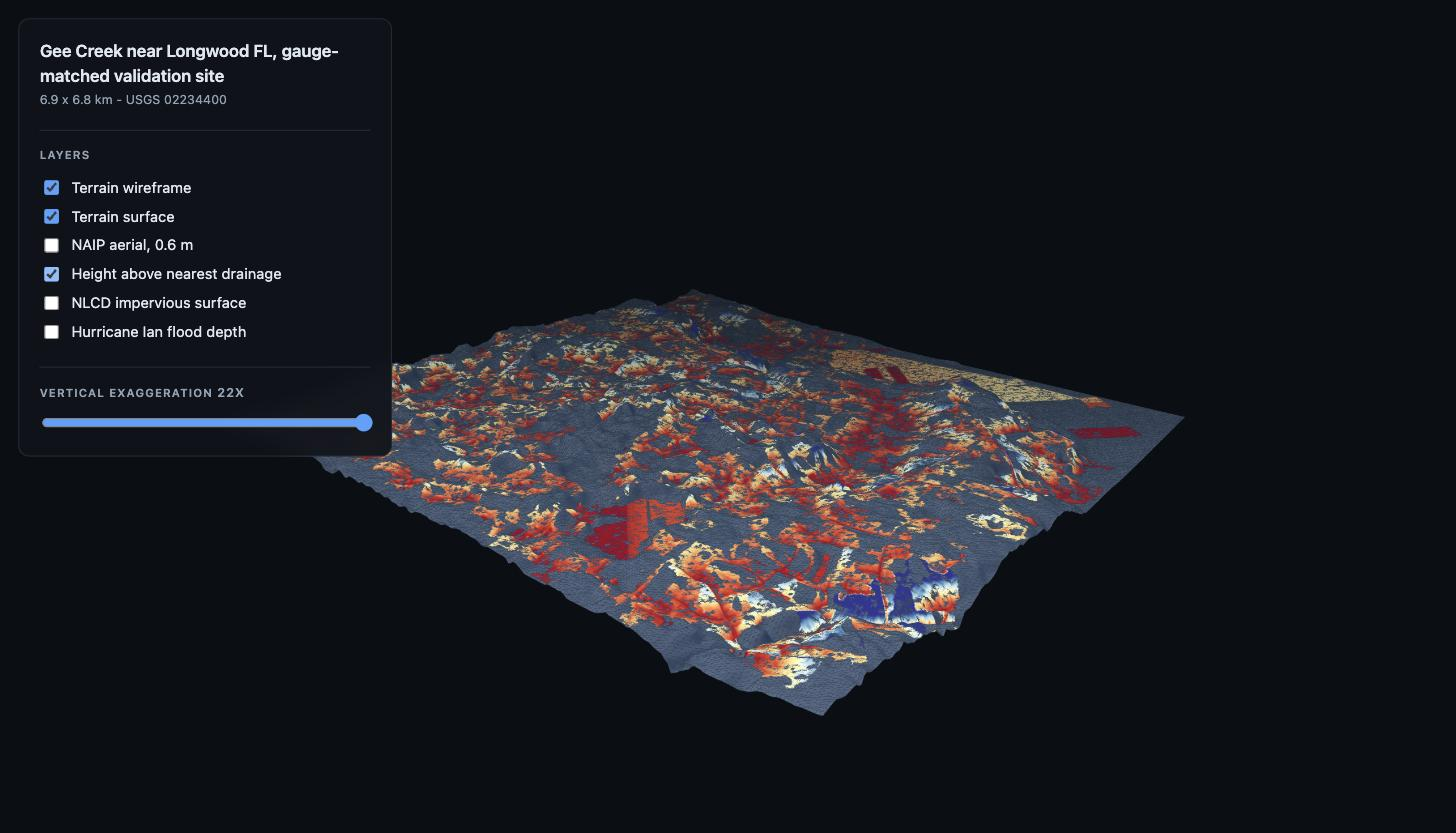
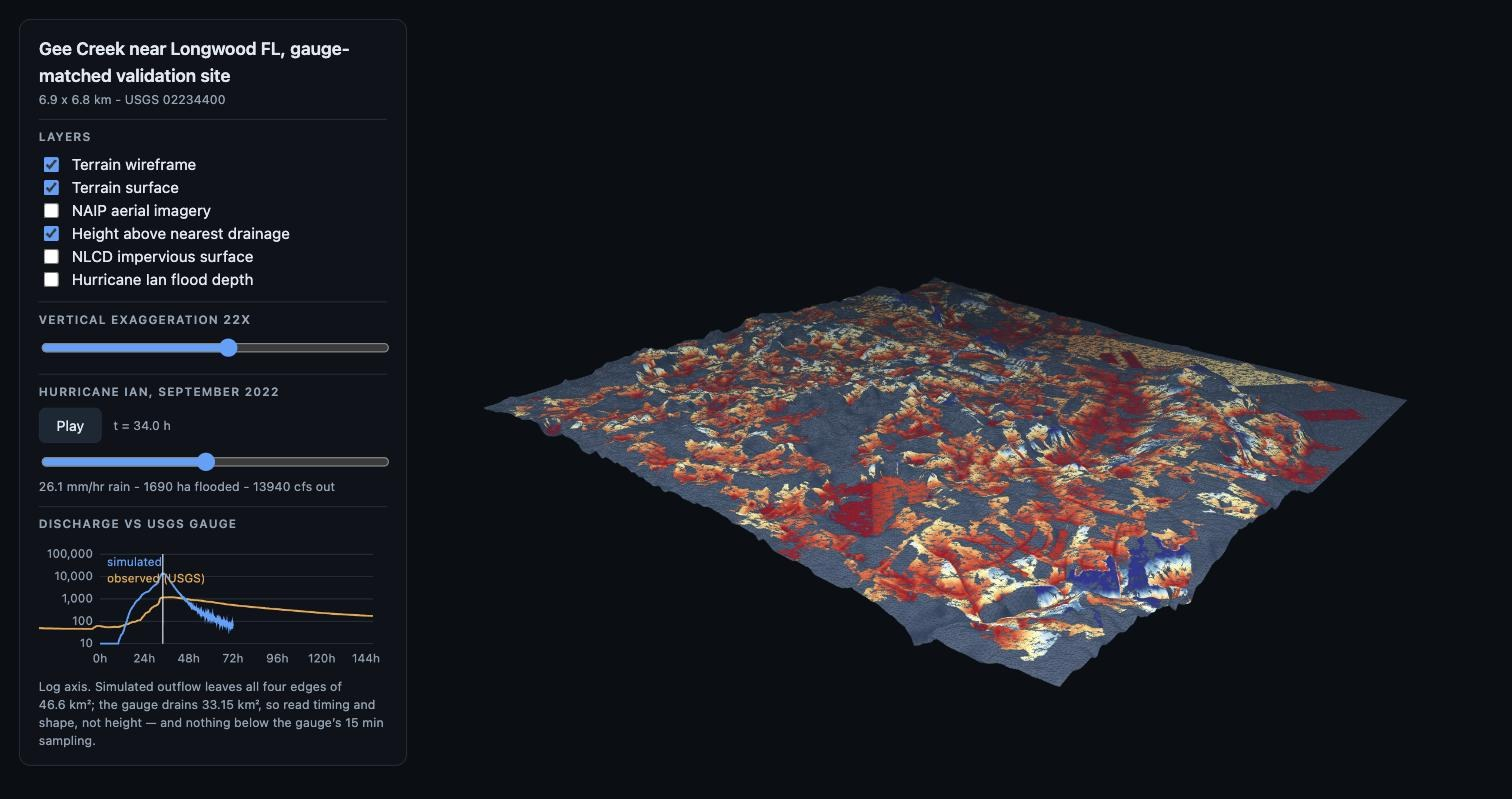
hydro: frame the viewer clear of its own panel, and retake the screenshots
Three things visible in the README's images on GitHub, two of them real.

The panel is opaque, fixed to the top-left, and 330x703 -- a quarter of the
canvas -- while the scene is centred on that canvas, so the terrain's near
corner sat underneath it. The projection now carries a view offset rather than
the camera: moving the camera would put the orbit centre off in space and every
drag would swing around it, while a negative x view-offset slides the rendered
scene right and leaves the orbit on the terrain.

The panel needed 873 px of content in a 701 px viewport, so 172 px hung below
the fold and the discharge chart was cut in half -- which is how it appears in
the image on GitHub. It is 633 px now: a shorter chart, tighter sections, and a
caption that says the same thing in fewer words. That fits a 679 px viewport,
which is what a 13" laptop actually gives a browser, not just this machine's.

The layers are NOT misaligned, which is the one that looked worst. Measured
against every flip of every layer: flooded cells sit at 34 % of the elevation
range with corr -0.354, NAIP darkness against elevation is -0.424, impervious
against NAIP is -0.288, and each flipped or transposed alternative is worse or
near zero. They share one PlaneGeometry and cannot drift. What reads as
misalignment is the black drape fixed in the previous commit: 23 % of the
imagery was opaque black, so it looked inset and shifted from the terrain.
[…]

Changed region(s): [[0.0, 0.03, 0.9272, 0.8711], [0.0309, 0.6909, 0.2473, 0.9312]]

diff --git a/models/hydro/viewer/static/js/main.js b/models/hydro/viewer/static/js/main.js
@@ -45,6 +45,20 @@ controls.target.set(0, relief * state.exag * 0.4, 0);
 controls.update();
 document.getElementById('loading').remove();
 
+/* The panel is opaque and fixed to the top-left, and the scene is centred on the canvas, so the
+   terrain's near corner sits underneath it. Shifting the PROJECTION rather than the camera
+   keeps the orbit centre on the terrain -- move the camera instead and every drag rotates about
+   a point off in space. A negative x view-offset renders a window left of the virtual origin,
+   which slides the scene right by that many pixels. */
+function frameClearOfPanel() {
+  const panel = document.getElementById('panel').getBoundingClientRect();
+  const shift = innerWidth > 2.5 * panel.width ? (panel.right + 16) / 2 : 0;
+  camera.setViewOffset(innerWidth, innerHeight, -shift, 0, innerWidth, innerHeight);
+  camera.aspect = innerWidth / innerHeight;
+  camera.updateProjectionMatrix();
+}
+frameClearOfPanel();
+
 /* Layer panel. A layer whose file is absent is shown disabled rather than hidden, so the page
    says what this site does not have instead of quietly differing from another site. */
 const panel = document.getElementById('layers');
@@ -112,11 +126,10 @@ function setFrame(i) {
 function chartCaption() {
   const domain = meta.domain_km2 ? `${meta.domain_km2.toFixed(1)}\u00a0km\u00b2` : 'the domain';
   const gauge = meta.gauge
-    ? `the gauge measures one channel draining ${meta.gauge.documented_area_km2}\u00a0km\u00b2, so`
-    : 'there is no gauge here, so';
-  return `Log axis. Simulated outflow crosses all four edges of ${domain}; ${gauge} read timing `
-       + 'and shape, not relative height. The gauge samples at 15\u00a0min, so no timing '
-       + 'difference below 0.25\u00a0h is measurable.';
+    ? `the gauge drains ${meta.gauge.documented_area_km2}\u00a0km\u00b2, so`
+    : 'no gauge here, so';
+  return `Log axis. Simulated outflow leaves all four edges of ${domain}; ${gauge} read timing `
+       + 'and shape, not height \u2014 and nothing below the gauge\u2019s 15\u00a0min sampling.';
 }
 
 async function loadChart() {
@@ -156,9 +169,8 @@ setInterval(() => {
 }, 400);
 
 addEventListener('resize', () => {
-  camera.aspect = innerWidth / innerHeight;
-  camera.updateProjectionMatrix();
   renderer.setSize(innerWidth, innerHeight);
+  frameClearOfPanel();
   if (state.chart) state.chart.draw(state.flood ? state.flood.timesHours[state.frame] : 0);
 });
 

diff --git a/models/hydro/viewer/static/css/app.css b/models/hydro/viewer/static/css/app.css
@@ -12,24 +12,24 @@ html, body { margin: 0; height: 100%; background: var(--bg); color: var(--text);
 #scene { position: fixed; inset: 0; width: 100%; height: 100%; display: block; }
 
 #panel { position: fixed; top: 16px; left: 16px; width: 330px; max-height: calc(100vh - 32px);
-  overflow-y: auto; padding: 16px 18px; background: var(--panel); border: 1px solid var(--line);
+  overflow-y: auto; padding: 13px 16px; background: var(--panel); border: 1px solid var(--line);
   border-radius: 10px; backdrop-filter: blur(8px); }
 #panel h1 { margin: 0 0 2px; font-size: 15px; font-weight: 600; letter-spacing: -0.01em; }
-#panel h2 { margin: 0 0 8px; font-size: 10px; font-weight: 600; text-transform: uppercase;
+#panel h2 { margin: 0 0 6px; font-size: 10px; font-weight: 600; text-transform: uppercase;
   letter-spacing: 0.09em; color: var(--muted); }
-#panel section { margin-top: 18px; padding-top: 14px; border-top: 1px solid var(--line); }
-.muted { color: var(--muted); font-size: 11px; margin: 0; }
+#panel section { margin-top: 9px; padding-top: 7px; border-top: 1px solid var(--line); }
+.muted { color: var(--muted); font-size: 10.5px; line-height: 1.45; margin: 0; }
 
-label.layer { display: flex; align-items: center; gap: 8px; padding: 3px 0; cursor: pointer; }
+label.layer { display: flex; align-items: center; gap: 8px; padding: 0; cursor: pointer; }
 label.layer input { accent-color: var(--accent); }
 label.layer.disabled { opacity: 0.35; cursor: default; }
 
 input[type=range] { width: 100%; accent-color: var(--accent); }
-.row { display: flex; align-items: center; gap: 10px; margin-bottom: 8px; }
+.row { display: flex; align-items: center; gap: 10px; margin-bottom: 6px; }
 button { background: #1b2735; color: var(--text); border: 1px solid var(--line);
   border-radius: 6px; padding: 5px 14px; cursor: pointer; font: inherit; font-size: 12px; }
 button:hover { border-color: var(--accent); }
 
-#chart { width: 100%; height: 210px; display: block; margin-bottom: 6px; }
+#chart { width: 100%; height: 112px; display: block; margin-bottom: 5px; }
 #loading { position: fixed; inset: 0; display: grid; place-items: center; color: var(--muted);
   pointer-events: none; }

diff --git a/models/hydro/tests/test_repo.py b/models/hydro/tests/test_repo.py
@@ -96,6 +96,33 @@ def test_no_committed_overlay_paints_the_terrain_black():
             f"must be transparent so the terrain shows through")
 
 
+def test_readme_screenshots_depict_the_committed_payload():
+    """A screenshot of a fixed bug looks exactly like a screenshot of a working viewer.
+
+    The README's hero image sat on GitHub showing 23 % of the aerial drape painted opaque black
+    long after that was fixed, because nothing connects a .jpg to the data it depicts: git keeps
+    no mtimes and the image cannot be regenerated by `make_figures`. This pins the payload each
+    screenshot was taken against, so changing the payload without retaking them fails here.
+    """
+    import json
+    import sys
+
+    sys.path.insert(0, str(ROOT))
+    import sites
+    from viewer.export import payload_digest
+
+    recorded = json.loads((ROOT / "docs" / "screenshots.json").read_text())
+    for name, entry in recorded.items():
+        if name.startswith("_"):
+            continue
+        for shot in entry["screenshots"]:
+            assert (ROOT / shot).exists(), f"{shot} is recorded but missing"
+        assert payload_digest(sites.get_site(name)) == entry["payload_digest"], (
+            f"viewer/data/{name} has changed since {entry['screenshots']} were taken. Re-run "
+            f"`python3 cli.py viewer --site {name}`, retake them, and update docs/screenshots.json "
+            f"with the digest `cli.py export` prints.")
+
+
 def test_the_readme_test_count_is_current():
     """A stale count is the cheapest possible signal that the README was not re-read."""
     import re

diff --git a/models/hydro/viewer/export.py b/models/hydro/viewer/export.py
@@ -5,6 +5,7 @@ solver's own outputs are not: a full-resolution point cloud is 1,011 MB and the 
 gigabytes. The payload is a view, not the data.
 """
 
+import hashlib
 import json
 from pathlib import Path
 from typing import Dict, Optional
@@ -36,6 +37,21 @@ def _storm_label(storm_name: str) -> str:
 
     storm = STORMS.get(storm_name)
     return storm.label if storm is not None else storm_name
+
+
+def payload_digest(site: SiteConfig) -> str:
+    """Content hash of everything the viewer serves for one site.
+
+    The two README screenshots are photographs of this payload, and nothing else can tell that
+    they have gone stale: git carries no mtimes, and a picture of a fixed bug looks exactly like
+    a picture of a working viewer. `docs/screenshots.json` records the digest each was taken
+    against, and a test compares it to the payload on disk.
+    """
+    h = hashlib.sha256()
+    for f in sorted(_data_dir(site).iterdir()):
+        h.update(f.name.encode())
+        h.update(f.read_bytes())
+    return h.hexdigest()[:16]
 
 
 def export_terrain(site: SiteConfig, storm_name: Optional[str] = None,
@@ -207,4 +223,5 @@ def export_all(site: SiteConfig, storm_name: str = "ian", cell_size_m: float = 2
         export_overlay(site, "hand", site.hand, cmap="RdYlBu"),
         export_overlay(site, "impervious", site.nlcd_impervious, cmap="inferno"),
     ) if n]
+    summary["payload_digest"] = payload_digest(site)
     return summary

diff --git a/models/hydro/README.md b/models/hydro/README.md
@@ -61,8 +61,9 @@ coordinate
   └── viewer     Flask + three.js
 ```
 
-Height above nearest drainage, the conditioning stage's own product, in the viewer. Blue is the
-channel network the storm fills; grey is where D8 could not resolve drainage at all:
+Height above nearest drainage, the conditioning stage's own product, in the viewer. The colour
+scale runs `RdYlBu` over HAND itself, so **red is the channel network** the storm fills and blue
+is high ground; grey is where D8 could not resolve drainage at all:
 
 [![Height above nearest drainage](docs/viewer_hand.jpg)](docs/viewer_hand.jpg)
 
@@ -100,7 +101,7 @@ after a re-run: it is what keeps the committed payload from drifting away from t
 derived from.
 
 ```bash
-python3 -m pytest         # 107 tests, ~10 s, no network and no site data
+python3 -m pytest         # 108 tests, ~10 s, no network and no site data
 ```
 
 This was rewritten from an older implementation, so it is held to that one numerically.
